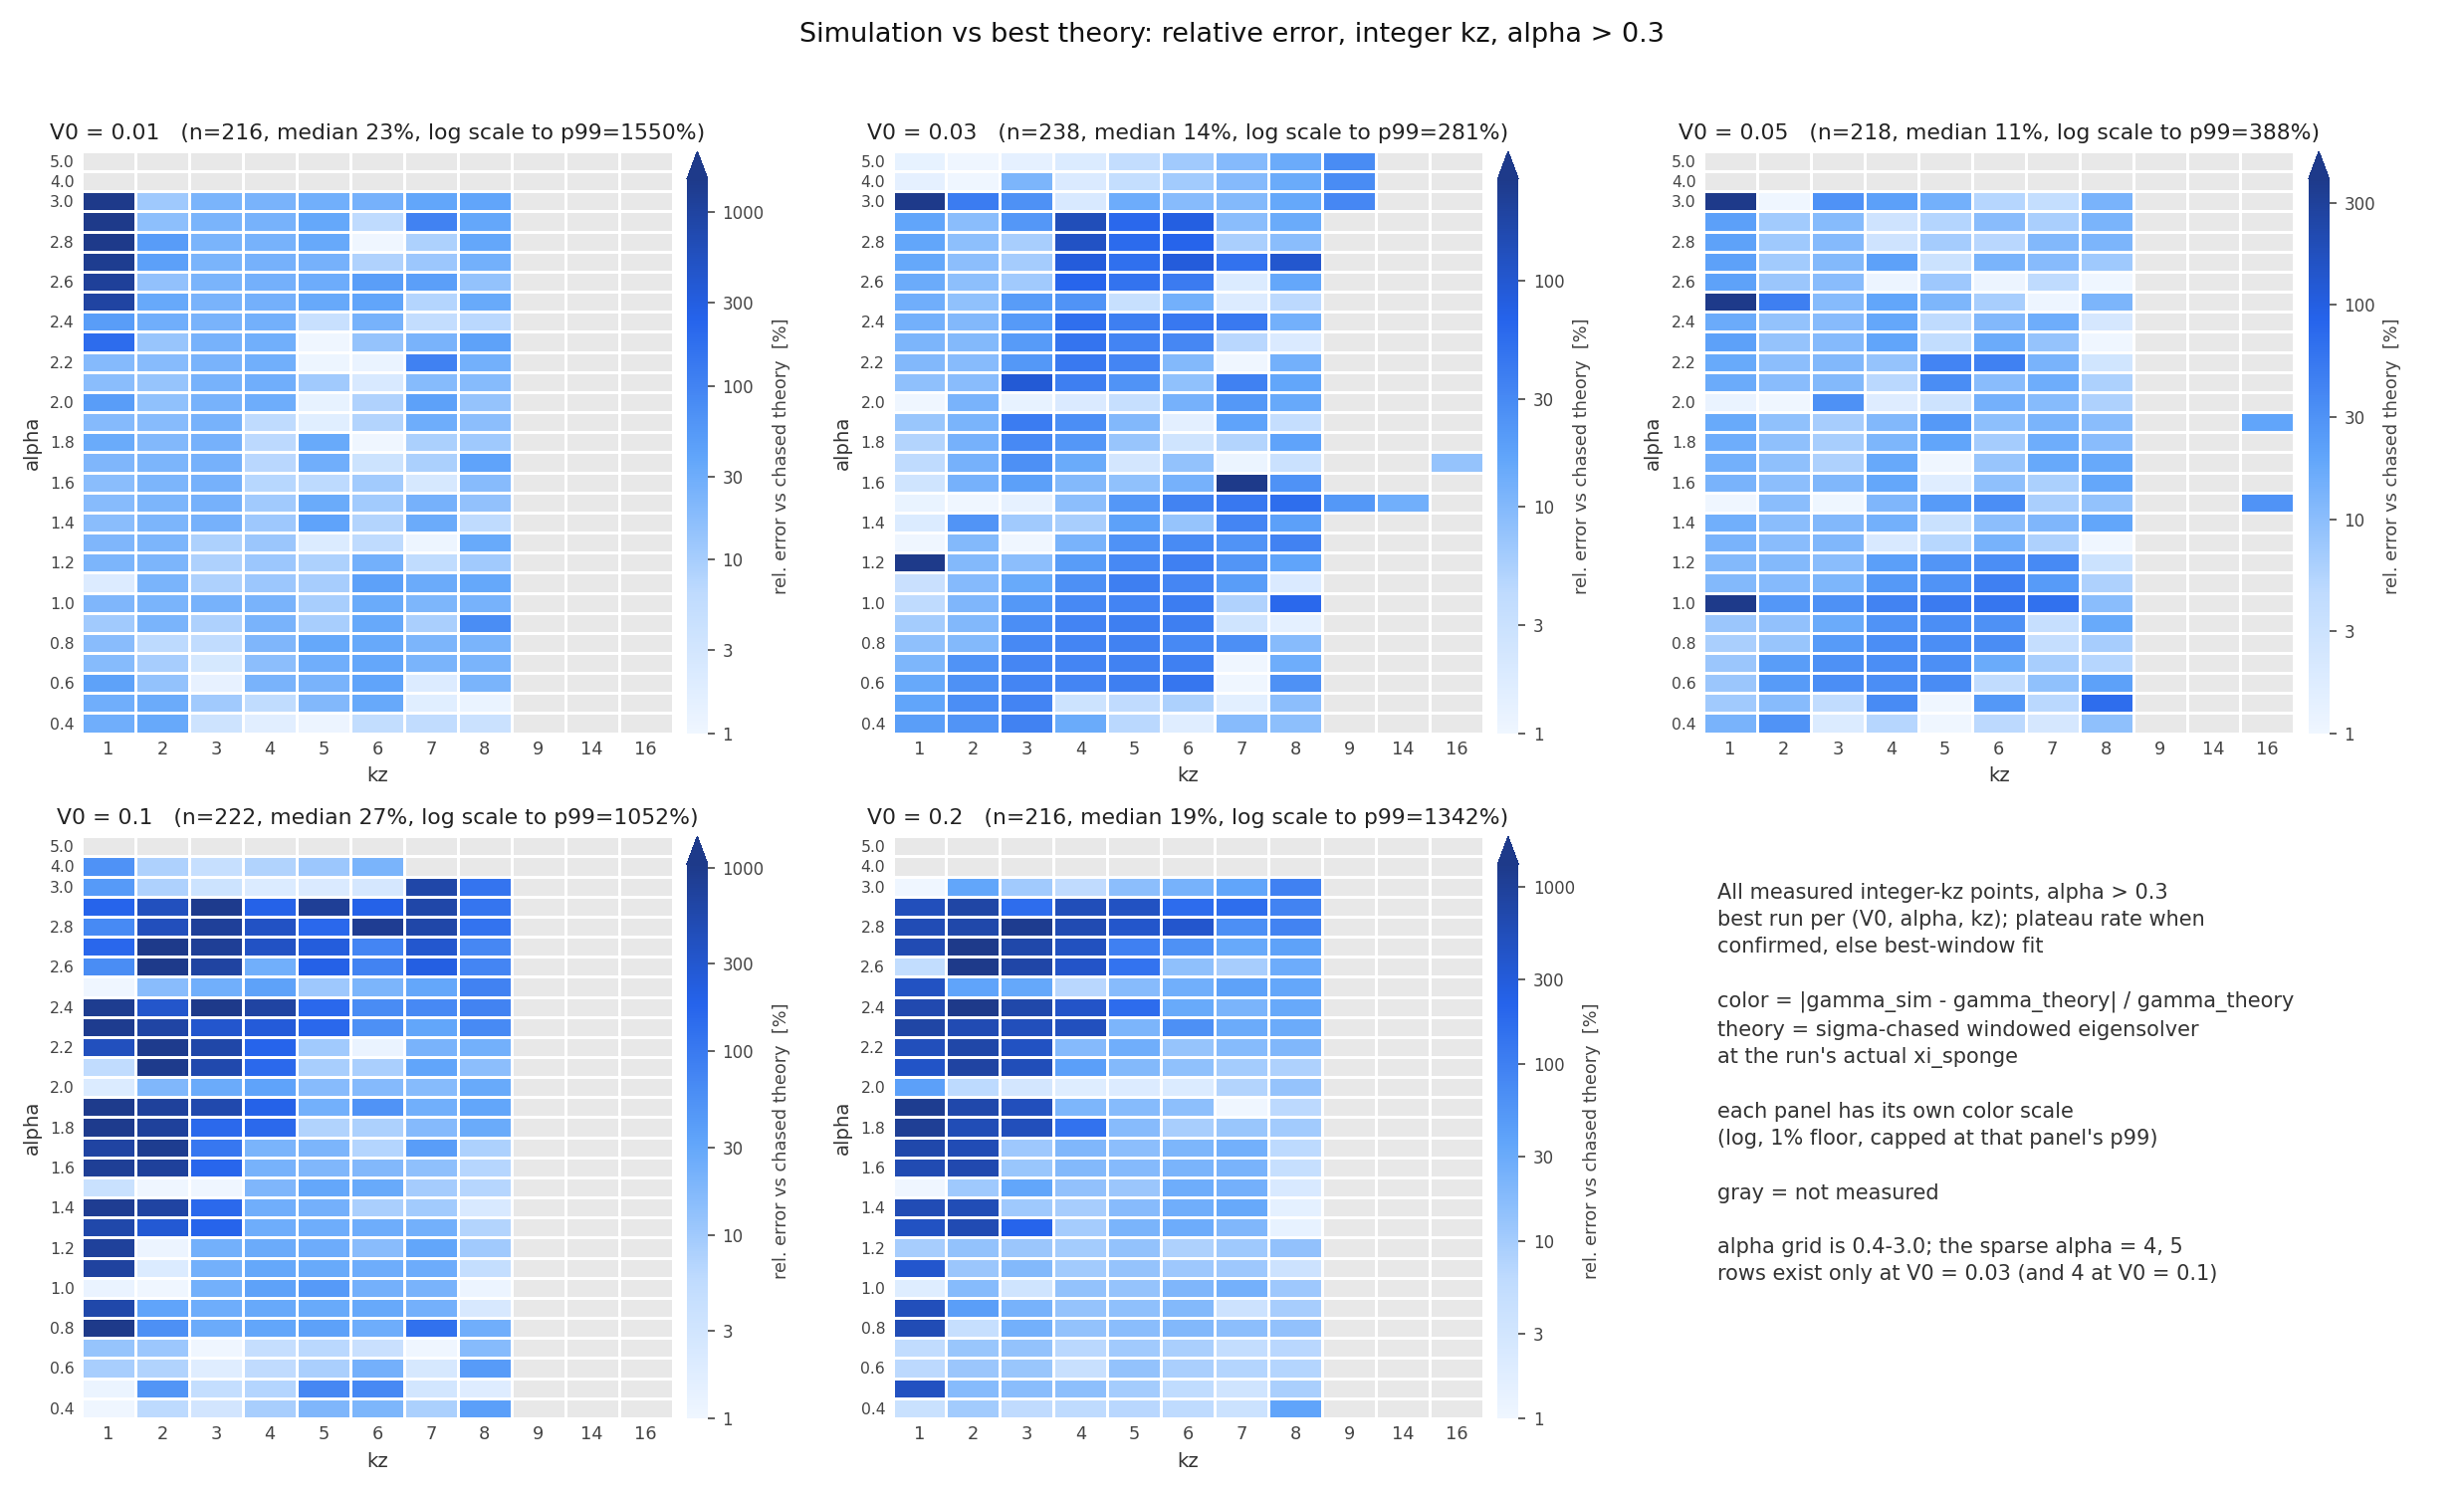
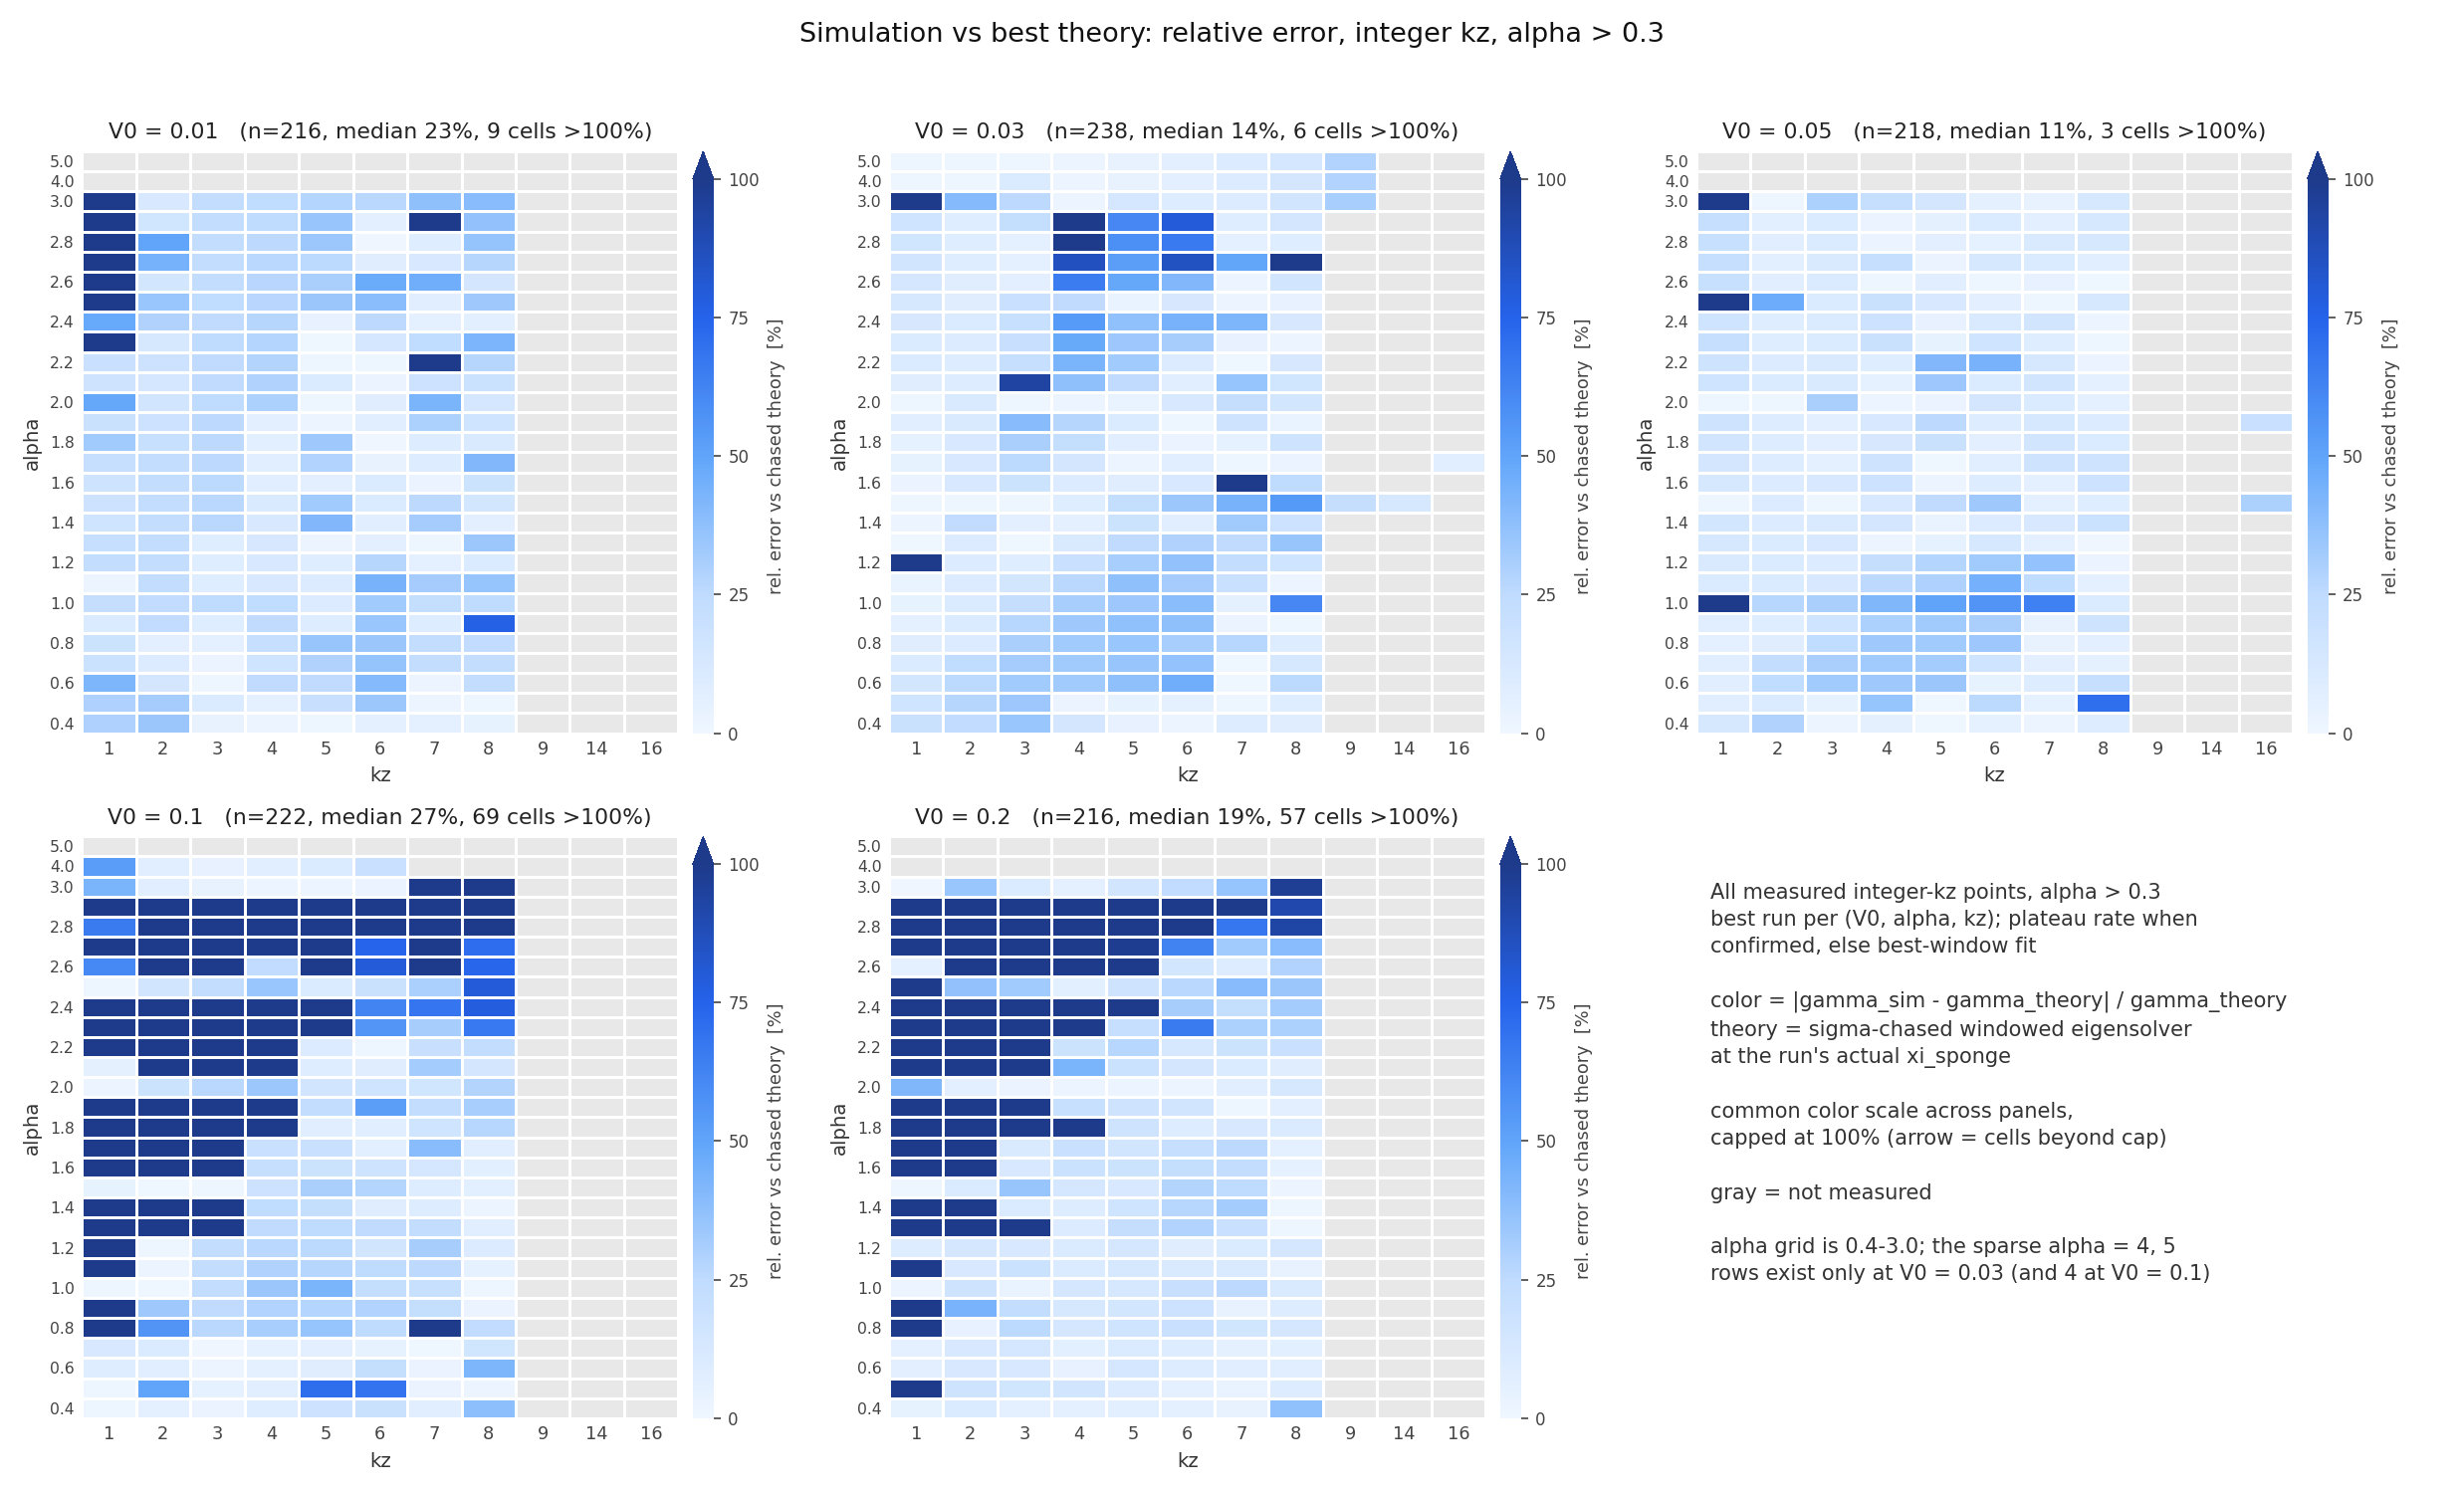
Replot error heatmaps with 100%-capped scale; diagnose all >50% cells
Three mechanisms, none a sim-accuracy problem: cavitation blow-up fits
(V0>=0.1 wedge, runs dead by t~9 TU), sp55 wide-window outer-tachyon
contamination (never suspectfix-rerun), and overtone-seeded runs compared
against the dominant mode (sim matches default-sigma eigenvalue to 6-23%).

Claude-Session: https://claude.ai/code/session_01T27yCkCMZ1b3bGrra25oew

diff --git a/ymgpu2d/analysis/plot_relerr_heatmaps.py b/ymgpu2d/analysis/plot_relerr_heatmaps.py
@@ -35,14 +35,11 @@ for ax, v in zip(axes, V0S):
     for r in sub.itertuples():
         grid[ALPHA.index(r.alpha), KZ.index(r.kz)] = r.rel_err_chased * 100
     finite = grid[np.isfinite(grid)]
-    vmax = np.percentile(finite, 99)
-    grid = np.clip(grid, 1.0, None)  # 1% floor for log scale
-    pm = ax.pcolormesh(np.ma.masked_invalid(grid), cmap=cmap,
-                       norm=LogNorm(vmin=1.0, vmax=vmax),
+    n_over = int(np.sum(finite > 100))
+    pm = ax.pcolormesh(np.ma.masked_invalid(grid), cmap=cmap, vmin=0, vmax=100,
                        edgecolors='white', linewidth=0.6)
     cb = fig.colorbar(pm, ax=ax, extend='max', pad=0.02, aspect=28)
-    ticks = [t for t in [1, 3, 10, 30, 100, 300, 1000] if t <= vmax * 1.05]
-    cb.ax.yaxis.set_major_locator(FixedLocator(ticks))
+    cb.ax.yaxis.set_major_locator(FixedLocator([0, 25, 50, 75, 100]))
     cb.ax.yaxis.set_minor_locator(FixedLocator([]))
     cb.ax.yaxis.set_major_formatter(FuncFormatter(lambda v, p: f'{v:g}'))
     cb.set_label('rel. error vs chased theory  [%]', fontsize=8.5, color='#444444')
@@ -57,7 +54,7 @@ for ax, v in zip(axes, V0S):
     ax.set_xlabel('kz', fontsize=9.5, color='#333333')
     ax.set_ylabel('alpha', fontsize=9.5, color='#333333')
     med = np.median(finite)
-    ax.set_title(f'V0 = {v}   (n={len(finite)}, median {med:.0f}%, log scale to p99={vmax:.0f}%)',
+    ax.set_title(f'V0 = {v}   (n={len(finite)}, median {med:.0f}%, {n_over} cells >100%)',
                  fontsize=10.5, color='#222222')
     for s in ax.spines.values():
         s.set_visible(False)
@@ -71,8 +68,8 @@ axes[5].text(0.02, 0.92,
              'color = |gamma_sim - gamma_theory| / gamma_theory\n'
              'theory = sigma-chased windowed eigensolver\n'
              'at the run\'s actual xi_sponge\n\n'
-             'each panel has its own color scale\n'
-             '(log, 1% floor, capped at that panel\'s p99)\n\n'
+             'common color scale across panels,\n'
+             'capped at 100% (arrow = cells beyond cap)\n\n'
              'gray = not measured\n\n'
              'alpha grid is 0.4-3.0; the sparse alpha = 4, 5\n'
              'rows exist only at V0 = 0.03 (and 4 at V0 = 0.1)',

diff --git a/ymgpu2d/FINDINGS.md b/ymgpu2d/FINDINGS.md
@@ -2517,3 +2517,45 @@ or any default-σ eigensolver value as "sim vs theory" — the first two compare
 against the bare quartic (median 1.9× off, up to 29×), and the default-σ call
 rides well-ladder overtones at low α / beyond-peak kz (20% of suspectfix points
 moved >5% when chased, 12.6% moved >50%).
+
+### Diagnosis of the >50%-error cells (integer kz, α>0.3 population)
+
+185/1123 cells exceed 50% error vs chased theory. **Every one lacks plateau
+confirmation**, and they fall into three mechanisms (plot:
+`plots/relerr_heatmap_int_kz.png`, 100%-capped scale):
+
+1. **Cavitation blow-up, V0=0.1/0.2 low-kz/high-α wedge — 146 cells (79%)**.
+   The runs die at median t=9 TU (90% before 15 TU) with super-exponential
+   amplitude growth (e.g. V0=0.1, α=2.3, kz=3: 1.3e-13 → 2e-3 in 8 TU); the
+   max-R² fitter reports the blow-up rate (γ 1–5 TU⁻¹, 3–15× any eigenmode).
+   This is the documented V0≥0.08 KH density-cavitation failure — the linear
+   KH mode is simply never measured in these runs, so the "error" is a
+   data-coverage hole, not a sim-accuracy statement.
+
+2. **Wide-window (sp55) outer-region contamination — ~29 cells**: the V0=0.01
+   kz=1 α≥2.3 column, the V0=0.03 kz=4–6 α≥2.1 band, and a few V0=0.05
+   strays. All are old blind-formula runs with xi_sponge=55 that never got a
+   vetted-sponge suspectfix rerun. The outer tachyonic frozen-Az1 branch grows
+   inside the huge window, outruns the shear mode (V0=0.01 kz=1: γ_meas rises
+   linearly with α, 0.30→0.84 over α=2.3→3.0, vs shear-mode γ≈0.04), and the
+   fit locks onto it at t≈11–25 before the energy-threshold halt. At sp55 the
+   eigensolver's is_localised(xi_inner=55) is nearly vacuous, so γ_chased is
+   also unreliable there (γ_chased jumps 0.04→0.10→0.23 across α=2.2→2.4;
+   at V0=0.1 kz=1 sp25-27 it returns the tachyon itself, γ≈5–6). Fix = rerun
+   with find_safe_sponge.py windows, not a theory problem.
+
+3. **Overtone-seeded runs read as undershoots — the ~5 clean R²=1.0 cells**
+   (V0=0.05 α=1.0 kz=5–7 sp25; V0=0.03 α=1.5 kz=8; V0=0.1 α=0.5 kz=5–6).
+   Confirmed quantitatively: at V0=0.05 α=1.0 sp25, sim matches the
+   default-σ (overtone) eigenvalue to 6–23% (kz=5: 0.064 vs 0.068; kz=6:
+   0.054 vs 0.060; kz=7: 0.042 vs 0.055) while sitting at 0.36–0.50× the
+   chased dominant mode — the T1.2 seeding by-product: the run grows exactly
+   the overtone its eigenmode seed selected. Sim numerics fine; re-seed with
+   σ-chased n=0 profiles to measure the dominant branch.
+
+**Bottom line: not one of the >50% cells indicates a simulation-accuracy
+problem.** They are (1) runs destroyed by cavitation before any linear phase,
+(2) runs measuring a different (outer, physical) instability admitted by an
+oversized window, and (3) runs measuring a different (overtone) branch of the
+correct instability. The honest sim-vs-theory benchmark remains the
+plateau-confirmed population: median 9–14%.